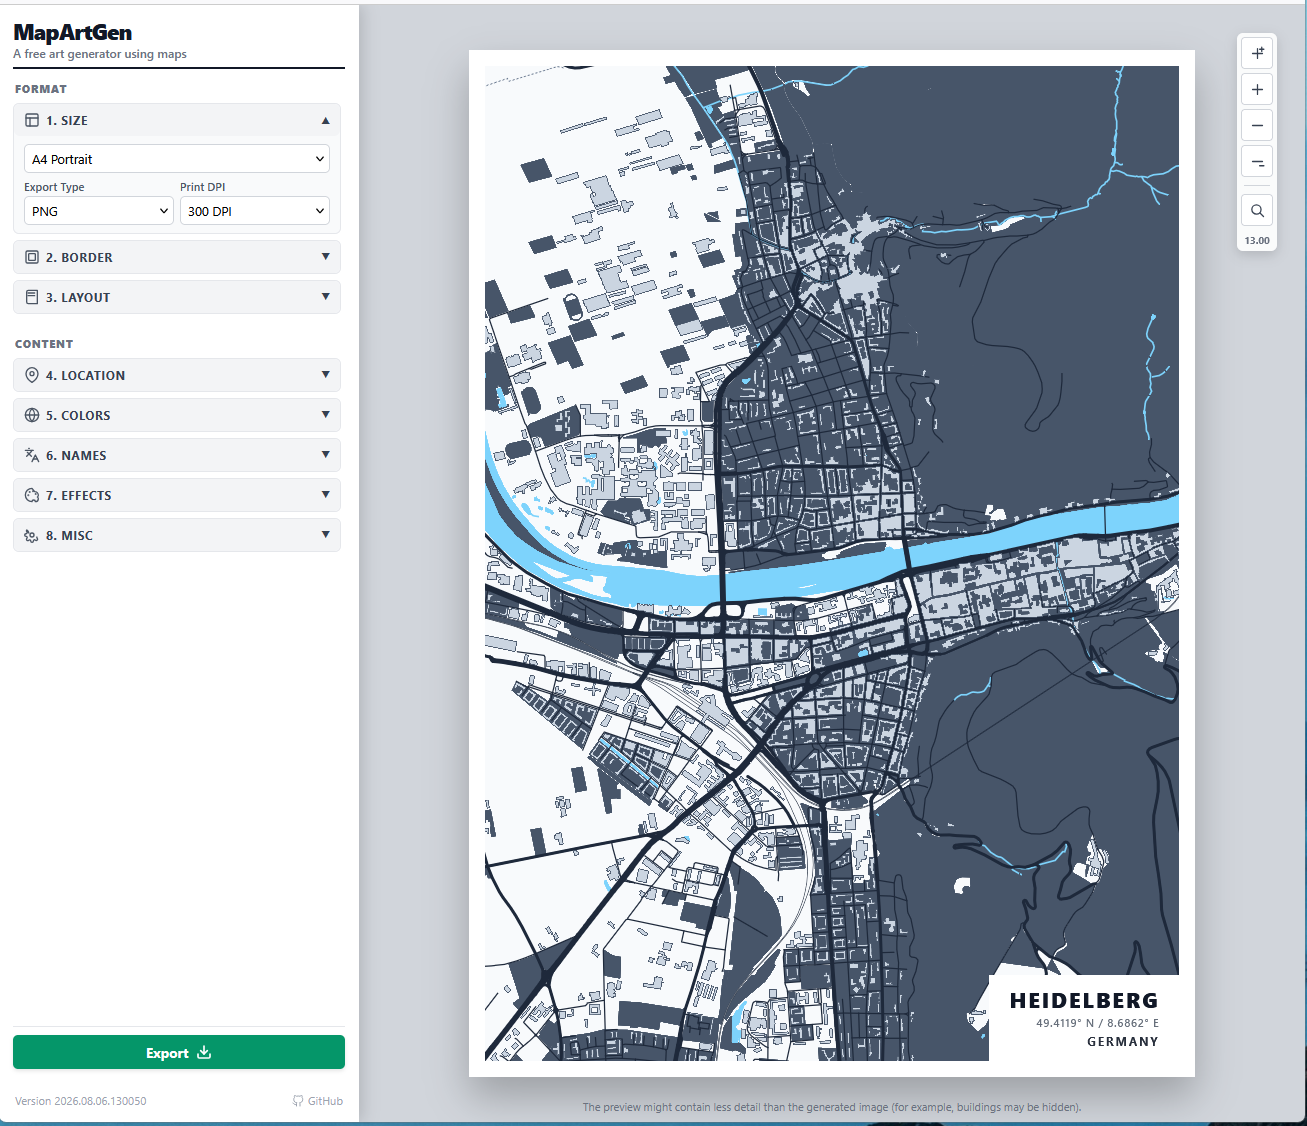
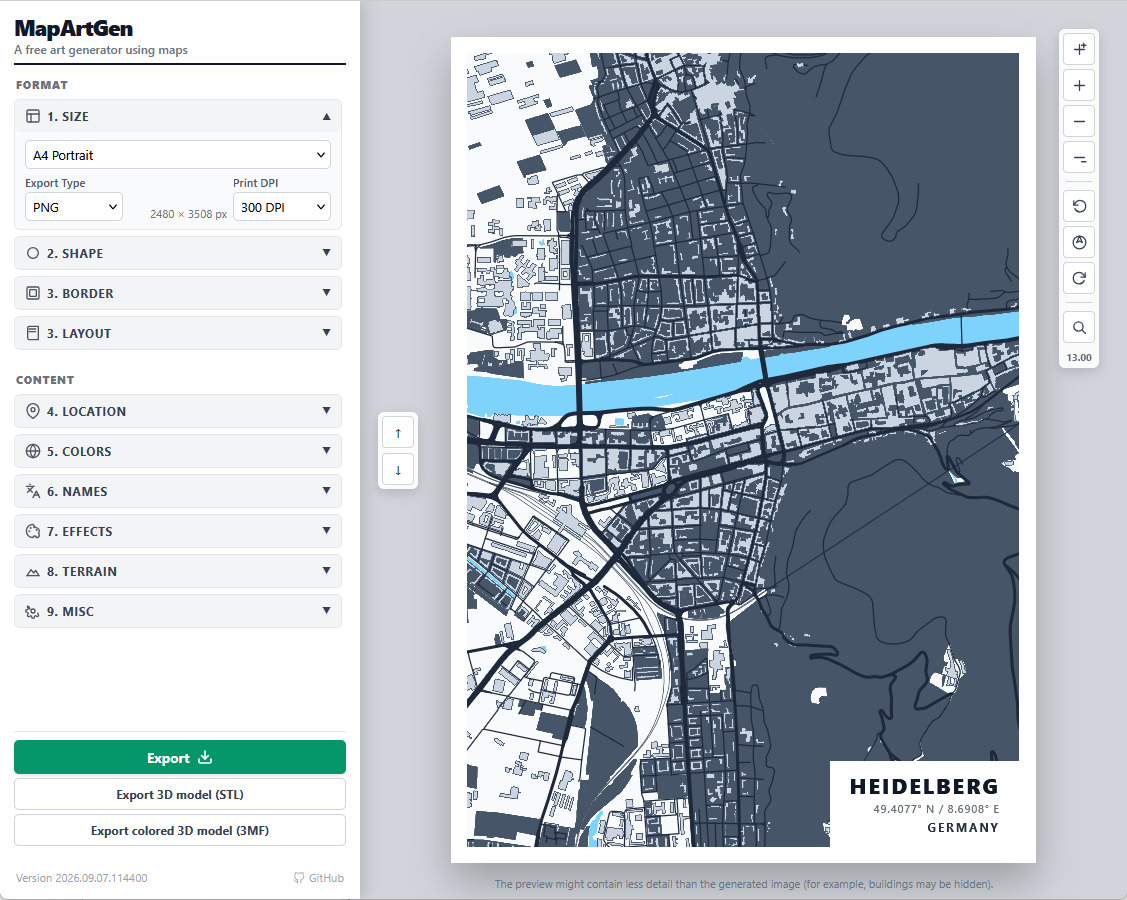
Minor fixes
Raised version number, updated preview image and improved readme

diff --git a/src/MapArtGen.html b/src/MapArtGen.html
@@ -7,7 +7,7 @@
   - The AI related to this task MUST ALWAYS output the FULL code after update instructions have been received from the developer.
 
    Application: MapArtGen
-  Version: 2026.08.08.135902
+  Version: 2026.09.07.114400
 -->
 <!DOCTYPE html>
 <html lang="en">
@@ -569,7 +569,7 @@
         <button type="button" class="secondary-action-btn" id="threeMfExportBtn" title="Generate a colored 3MF terrain model using the selected map colors">Export colored 3D model (3MF)</button>
         <div id="statusMessage" class="status-message" role="status" aria-live="polite"></div>
         <div class="footer-meta">
-          <span id="versionLabel">Version 2026.08.08.135902</span>
+          <span id="versionLabel">Version 2026.09.07.114400</span>
           <a href="https://github.com/yafp/MapArtGen/" target="_blank" rel="noopener noreferrer" title="View repository on GitHub">
             <svg width="12" height="12" viewBox="0 0 24 24" fill="none" stroke="currentColor" stroke-width="2" stroke-linecap="round" stroke-linejoin="round"><path d="M9 19c-5 1.5-5-2.5-7-3m14 6v-3.87a3.37 3.37 0 0 0-.94-2.61c3.14-.35 6.44-1.54 6.44-7A5.44 5.44 0 0 0 20 4.77 5.07 5.07 0 0 0 19.91 1S18.73.65 16 2.48a13.38 13.38 0 0 0-7 0C6.27.65 5.09 1 5.09 1A5.07 5.07 0 0 0 5 4.77a5.44 5.44 0 0 0-1.5 3.78c0 5.42 3.3 6.61 6.44 7A3.37 3.37 0 0 0 9 18.13V22"></path></svg>
             GitHub

diff --git a/README.md b/README.md
@@ -28,6 +28,7 @@ It is inspired by [Urbanmapdesign.com](https://www.urbanmapdesign.com).
 - `MapArtGen.css` contains all presentation styles.
 - `js/presets.js` contains the palette catalog and normalized preset data.
 - `js/app.js` contains state, map, geocoding, preview, UI, and export behavior.
+- `js/export-worker.js` contains the exporting routines.
 
 
 
